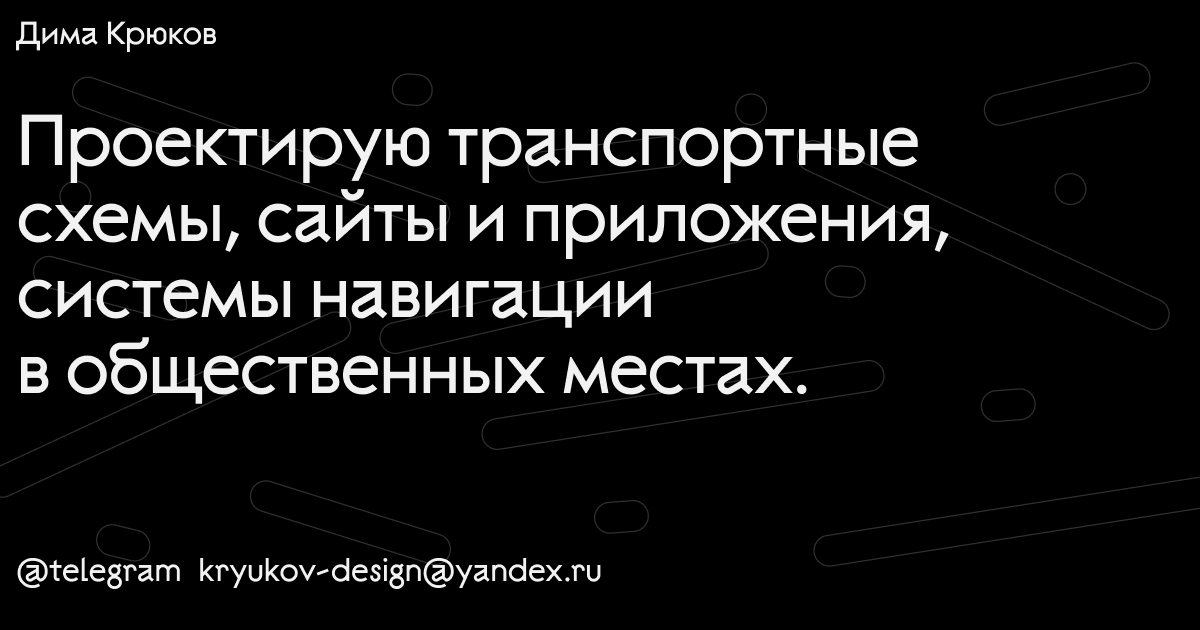
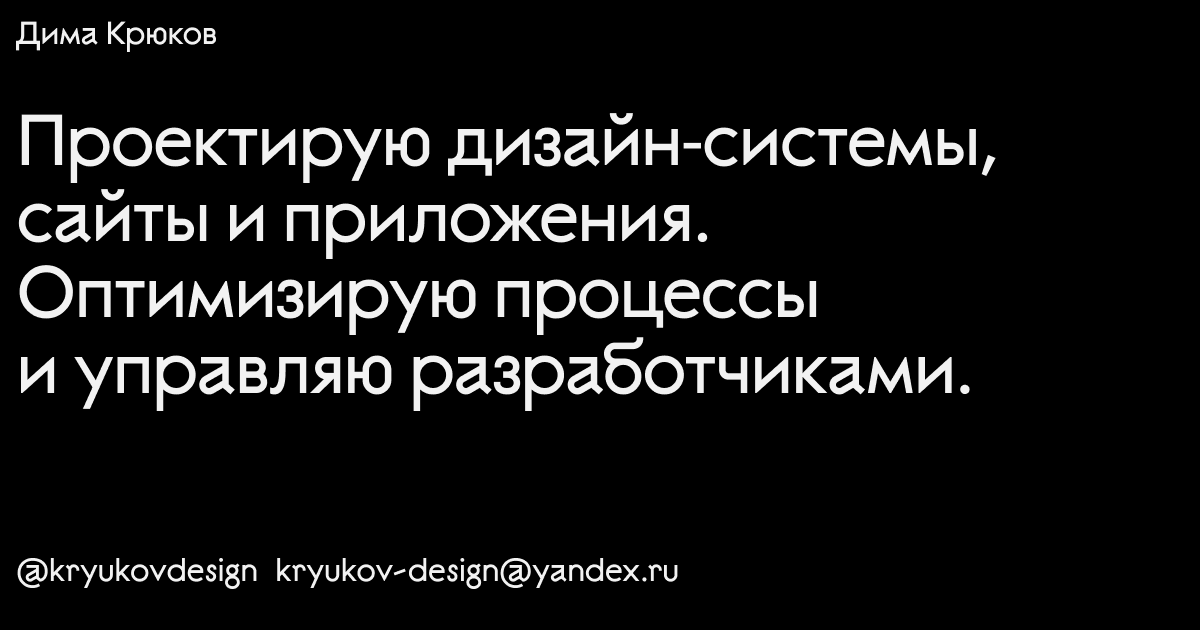
Edit text in promoblock, add description tag, update opengraph

Changed region(s): [[0.0, 0.181, 0.8325, 0.6635], [0.0308, 0.8746, 0.5858, 0.9349]]

diff --git a/dev/index.html b/dev/index.html
@@ -1,8 +1,8 @@
 <!DOCTYPE html>
 <html lang="ru">
   <head>
-    <title>Дмитрий Крюков — резюме</title>
-    <meta name="description" content="">
+    <title>Дмитрий Крюков</title>
+    <meta name="description" content="Продуктовый и информационный дизайнер. Арт-директор в Картоне.">
     <meta charset="UTF-8">
     <meta name="viewport" content="width=device-width, initial-scale=1.0">
     <meta name="theme-color" content="#000000">
@@ -29,7 +29,7 @@
         <nav class="main-header-nav"> <a class="main-header-nav__telegram" href="https://t.me/kryukovdesign" target="_blank">Телеграм</a><a class="main-header-nav__email--big-screen" href="mailto:kryukov-design@yandex.ru">kryukov-design@yandex.ru</a><a class="main-header-nav__email--small-screen" href="mailto:kryukov-design@yandex.ru">Почта</a></nav>
       </header>
       <div class="promo">
-        <h2 class="promo__title">Проектирую транспортные схемы, сайты и&nbsp;приложения, системы навигации в&nbsp;общественных&nbsp;местах.</h2>
+        <h2 class="promo__title">Проектирую дизайн‑системы, сайты и приложения. Оптимизирую процессы и управляю разработчиками.</h2>
       </div>
       <div class="info">
         <div class="info-skills">
